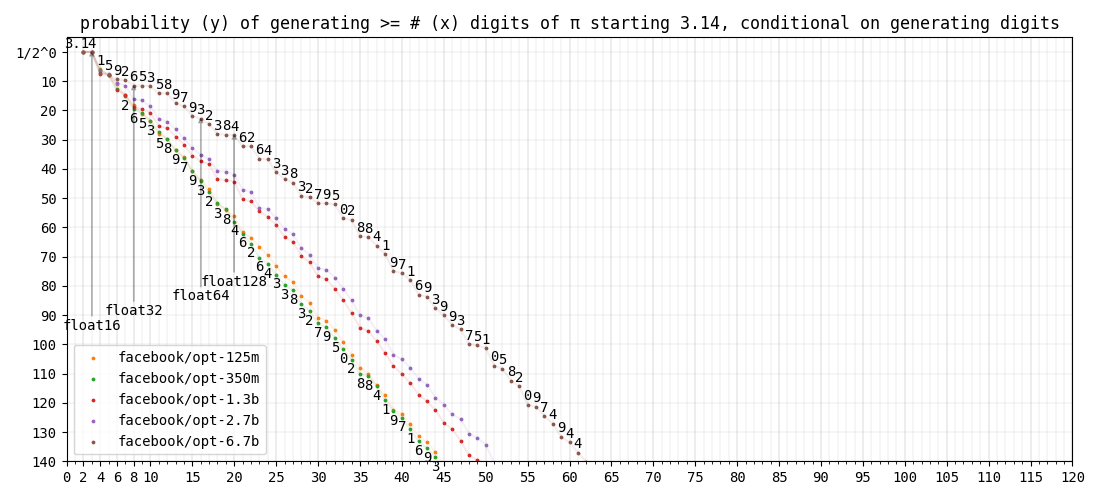
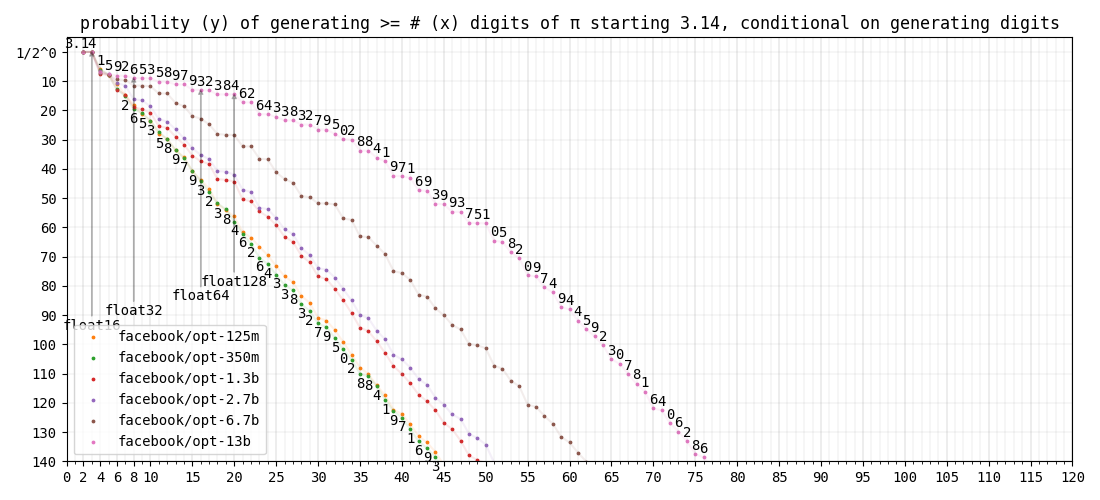
adding more models

diff --git a/pigen.html b/pigen.html
@@ -12,7 +12,16 @@
 <body>
   <a href="index.html"> &lt&lt; Piotr (Peter) Mardziel</a>
 
-  <h1>how many digits of pi does gpt know?</h1>
+  <br/>
+
+  Question: <a href="#part1">How many digits of pi does gpt know?</a>
+
+  <br/>
+
+  Question: <a href="#part2">Does gpt know some pi even if it does not generate it greedily one
+  token at a time?</a>
+
+  <h1><a name="part1"></a>How many digits of pi does gpt know?</h1>
 
   <ul>
     <li>GPT and similar models take as input a piece of text and output a prediction of what comes
@@ -21,7 +30,7 @@
 
     <li>Given the text "3.14159", the model gpt2-xl, correctly picks the next 793 digits of pi
       before making a mistake. gpt1, on the other hand, makes a mistake right away giving us 0
-      additional digits. Results for other gpt variants and sizes of bloom are shown below
+      additional digits. Results for other large language models are shown below
       under <a href="#greedypi">greedy pi</a>.</li>
 
     <li>Models vary in size. Their pi-generating capability is shown as a function of their size
@@ -31,16 +40,9 @@
 
     <li>All results are conditioned on models generating digits and not other
       characters/words/tokens.</li>
-
-    <li>If each model predicted digits according to their distributions instead of picking the most
-      probable digits, what would be the probability of generating at least n digits of pi? This is
-      shown in section <a href="#piprobability">pi probability</a>.</li>
-
-    <li>All models have some notion of pi until a point where pi probability degenerates at a fixed
-      exponential (a straight diagonal line in the graphs).</li>
   </ul>
 
-  <h1><a name="greedypi"></a>greedy pi</h1>
+  <h2><a name="greedypi"></a>greedy pi</h2>
 
     <img src="images/pigen-greedy.png"/>
 
@@ -49,130 +51,178 @@
       define pi for storage in respective floating point formats.
     </ul>
 
-    <h2><a name="digitsperparameter"></a>digits per parameter</h2>
+    <h3><a name="digitsperparameter"></a>digits per parameter</h3>
 
     <img src="images/pigen-stats.png"/>
 
-    <h2><a name="stats"></a>stats</h2>
+    <h3><a name="stats"></a>stats</h3>
 
-    <table border='1'>
-      <tr>
-	<th>model</th>
-	<th># parameters (G=2^30)</th>
-	<th># of greedy pi digits beyond the starting 3.14159</th>
-	<th>digits per G params</th>
-      </tr>
-      <tr>
-	<td>bigscience/bloom-560m</td>
-	<td>0.52 G</td>
-	<td>15</td>
-	<td>28.8</td>
-      </tr>
-      <tr>
-	<td>bigscience/bloom-1b1</td>
-	<td>0.99 G</td>
-	<td>10</td>
-	<td>10.1</td>
-      </tr>
-      <tr>
-	<td>bigscience/bloom-1b7</td>
-	<td>1.60 G</td>
-	<td>47</td>
-	<td>29.3</td>
-      </tr>
-      <tr>
-	<td>bigscience/bloom-3b</td>
-	<td>2.80 G</td>
-	<td>85</td>
-	<td>30.4</td>
-      </tr>
-      <tr>
-	<td>bigscience/bloom-7b1</td>
-	<td>6.58 G</td>
-	<td>120</td>
-	<td>18.2</td>
-      </tr>
-      <tr>
-	<td>openai-gpt</td>
-	<td>0.11 G</td>
-	<td>0</td>
-	<td>0.0</td>
-      </tr>
-      <tr>
-	<td>distilgpt2</td>
-	<td>0.08 G</td>
-	<td>0</td>
-	<td>0.0</td>
-      </tr>
-      <tr>
-	<td>gpt2</td>
-	<td>0.12 G</td>
-	<td>14</td>
-	<td>120.8</td>
-      </tr>
-      <tr>
-	<td>gpt2-medium</td>
-	<td>0.33 G</td>
-	<td>57</td>
-	<td>172.5</td>
-      </tr>
-      <tr>
-	<td>gpt2-large</td>
-	<td>0.72 G</td>
-	<td>123</td>
-	<td>170.6</td>
-      </tr>
-      <tr>
-	<td>gpt2-xl</td>
-	<td>1.45 G</td>
-	<td>793</td>
-	<td>546.7</td>
-      </tr>
-      <tr>
-	<td>facebook/opt-125m</td>
-	<td>0.12 G</td>
-	<td>0</td>
-	<td>0.0</td>
-      </tr>
-      <tr>
-	<td>facebook/opt-350m</td>
-	<td>0.31 G</td>
-	<td>0</td>
-	<td>0.0</td>
-      </tr>
-      <tr>
-	<td>facebook/opt-1.3b</td>
-	<td>1.23 G</td>
-	<td>0</td>
-	<td>0.0</td>
-      </tr>
-      <tr>
-	<td>facebook/opt-2.7b</td>
-	<td>2.47 G</td>
-	<td>3</td>
-	<td>1.2</td>
-      </tr>
-      <tr>
-	<td>facebook/opt-6.7b</td>
-	<td>6.20 G</td>
-	<td>8</td>
-	<td>1.3</td>
-      </tr>
-    </table>
+<table border='1'>
+<tr>
+<th>model</th>
+<th># parameters (G=2^30)</th>
+<th># of greedy pi digits beyond the starting 3.14159</th>
+<th>digits per G params</th>
+</tr>
+<tr>
+      <td>bigscience/bloom-560m</td>
+      <td>0.52 G</td>
+      <td>15</td>
+      <td>28.8</td>
+    </tr><tr>
+      <td>bigscience/bloom-1b1</td>
+      <td>0.99 G</td>
+      <td>10</td>
+      <td>10.1</td>
+    </tr><tr>
+      <td>bigscience/bloom-1b7</td>
+      <td>1.60 G</td>
+      <td>47</td>
+      <td>29.3</td>
+    </tr><tr>
+      <td>bigscience/bloom-3b</td>
+      <td>2.80 G</td>
+      <td>85</td>
+      <td>30.4</td>
+    </tr><tr>
+      <td>bigscience/bloom-7b1</td>
+      <td>6.58 G</td>
+      <td>120</td>
+      <td>18.2</td>
+    </tr><tr>
+      <td>openai-gpt</td>
+      <td>0.11 G</td>
+      <td>0</td>
+      <td>0.0</td>
+    </tr><tr>
+      <td>distilgpt2</td>
+      <td>0.08 G</td>
+      <td>0</td>
+      <td>0.0</td>
+    </tr><tr>
+      <td>gpt2</td>
+      <td>0.12 G</td>
+      <td>14</td>
+      <td>120.8</td>
+    </tr><tr>
+      <td>gpt2-medium</td>
+      <td>0.33 G</td>
+      <td>57</td>
+      <td>172.5</td>
+    </tr><tr>
+      <td>gpt2-large</td>
+      <td>0.72 G</td>
+      <td>123</td>
+      <td>170.6</td>
+    </tr><tr>
+      <td>gpt2-xl</td>
+      <td>1.45 G</td>
+      <td>793</td>
+      <td>546.7</td>
+    </tr><tr>
+      <td>facebook/opt-125m</td>
+      <td>0.12 G</td>
+      <td>0</td>
+      <td>0.0</td>
+    </tr><tr>
+      <td>facebook/opt-350m</td>
+      <td>0.31 G</td>
+      <td>0</td>
+      <td>0.0</td>
+    </tr><tr>
+      <td>facebook/opt-1.3b</td>
+      <td>1.23 G</td>
+      <td>0</td>
+      <td>0.0</td>
+    </tr><tr>
+      <td>facebook/opt-2.7b</td>
+      <td>2.47 G</td>
+      <td>3</td>
+      <td>1.2</td>
+    </tr><tr>
+      <td>facebook/opt-6.7b</td>
+      <td>6.20 G</td>
+      <td>8</td>
+      <td>1.3</td>
+    </tr><tr>
+      <td>facebook/opt-13b</td>
+      <td>11.97 G</td>
+      <td>16</td>
+      <td>1.3</td>
+    </tr><tr>
+      <td>EleutherAI/pythia-70m</td>
+      <td>0.07 G</td>
+      <td>1</td>
+      <td>15.2</td>
+    </tr><tr>
+      <td>EleutherAI/pythia-160m</td>
+      <td>0.15 G</td>
+      <td>25</td>
+      <td>165.4</td>
+    </tr><tr>
+      <td>EleutherAI/pythia-410m</td>
+      <td>0.38 G</td>
+      <td>5</td>
+      <td>13.2</td>
+    </tr><tr>
+      <td>EleutherAI/pythia-1b</td>
+      <td>0.94 G</td>
+      <td>104</td>
+      <td>110.4</td>
+    </tr><tr>
+      <td>EleutherAI/pythia-1.4b</td>
+      <td>1.32 G</td>
+      <td>26</td>
+      <td>19.7</td>
+    </tr><tr>
+      <td>EleutherAI/pythia-2.8b</td>
+      <td>2.58 G</td>
+      <td>137</td>
+      <td>53.0</td>
+    </tr><tr>
+      <td>EleutherAI/pythia-6.9b</td>
+      <td>6.39 G</td>
+      <td>10</td>
+      <td>1.6</td>
+    </tr><tr>
+      <td>EleutherAI/pythia-12b</td>
+      <td>11.03 G</td>
+      <td>1115</td>
+      <td>101.1</td>
+    </tr>
+</table>
 
-    <h1><a name="piprobability"></a>pi probability</h1>
+    <h1><a name="part2"></a>Does gpt know some pi even if it does not generate it greedily one
+    token at a time?</h1>
 
-    <h2>all</h2>
+    <ul>
+    <li>Yes. Let us look at pi generating probability instead of greedy pi length.</li>
+
+    <li>If each model predicted digits according to their distributions instead of picking the most
+      probable digits, what would be the probability of generating at least n digits of pi? This is
+      shown in section <a href="#piprobability">pi probability</a>.</li>
+
+    <li>All models have some notion of pi until a point where pi probability degenerates at a fixed
+      exponential (a straight diagonal line in the graphs).</li>
+    </ul>
+
+
+    <h2><a name="piprobability"></a>pi probability</h2>
+
+    <h3>all</h3>
     <img src="images/pigen-all.png"/>
 
-    <h2>gpt</h2>
+    <h3>gpt</h3>
     <img src="images/pigen-gpt.png"/>
 
-    <h2>bloom</h2>
+    <h3>bloom</h3>
     <img src="images/pigen-bloom.png"/>
 
-    <h2>opt</h2>
+    <h3>opt</h3>
     <img src="images/pigen-opt.png"/>
+
+    <h3>pythia</h3>
+    <img src="images/pigen-pythia.png"/>
 
 </body>
 </html>
